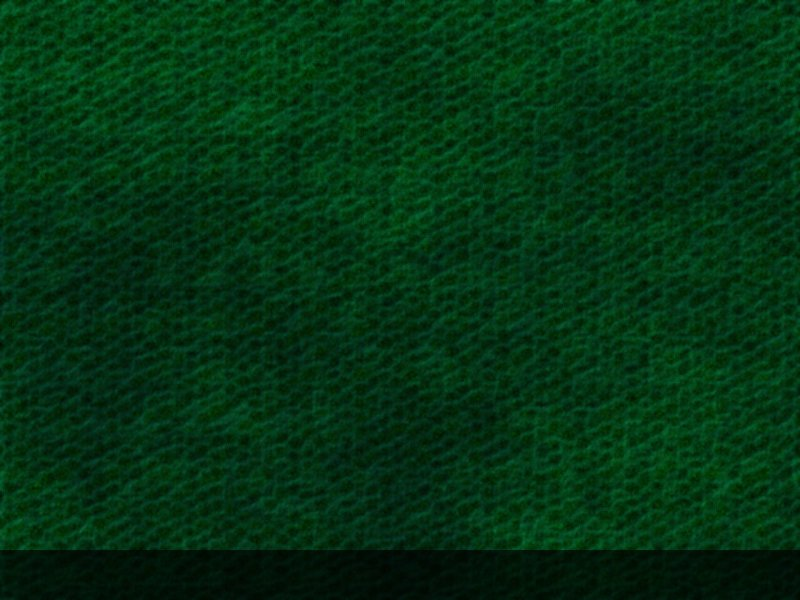
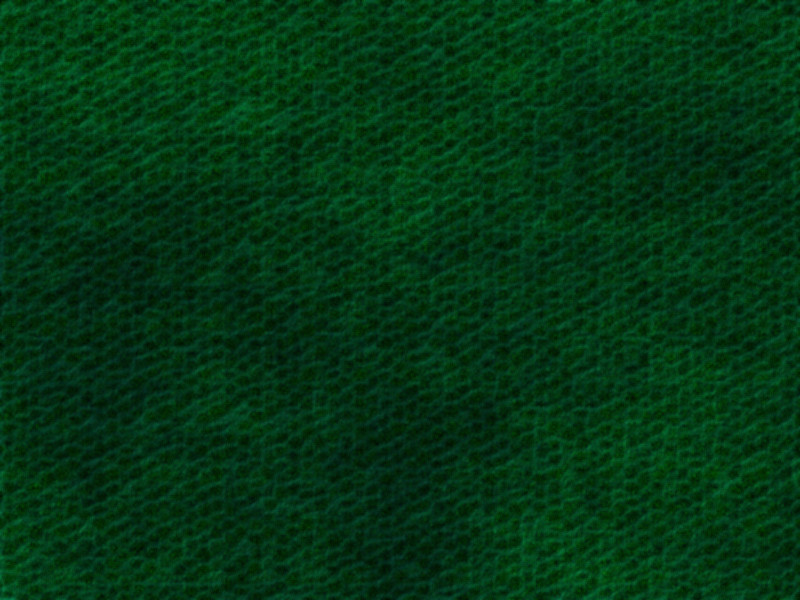
Added scrolling

Changed region(s): [[0.0, 0.9, 1.0, 1.0]]

diff --git a/build/10sectaxi.html b/build/10sectaxi.html
@@ -3,7 +3,7 @@
   <head>
     <meta charset="utf-8">
     <meta http-equiv="Content-Type" content="text/html; charset=utf-8">
-    <title>Ten Second Taxi</title>
+    <title>Ten-Second Taxi</title>
     <style>
       .emscripten { padding-right: 0; margin-left: auto; margin-right: auto; display: block; }
       textarea.emscripten { font-family: monospace; width: 80%; }

diff --git a/app.cpp b/app.cpp
@@ -24,6 +24,7 @@
 #include <SDL/SDL_image.h>
 #include <cstdio>
 #include <cstdlib>
+#include <sstream>
 
 //------------------------------------------------------------------------------
 // Functions defined in JavaScript in the HTML file
@@ -47,7 +48,12 @@ Application::Application(const std::vector<std::string> &lrArgs) :
 	mStartTimeSec(0.0f),
 	mCurrentTimeSec(0.0f),
 	mQuit(false),
-	mpMusic(nullptr)
+	mAreaLeft(0.0f),
+	mAreaRight(0.0f),
+	mAreaTop(0.0f),
+	mAreaBottom(0.0f),
+	mpMusic(nullptr),
+	mpTestSound(nullptr)
 {
 	ASSERT(msInstance == nullptr);
 	msInstance = this;
@@ -121,19 +127,11 @@ bool Application::init()
 	//mpTestSound = gAudioManager.loadSound("data/test_sfx.ogg");
 	//mpTestSound->play();
 	
-	//mpBackground = gTextureManager.load("data/grass.jpg");
-	mpBackground = gTextureManager.load(Settings::getString("screen/background_texture"));
-	mpGuard = gTextureManager.load("data/guard.png");
-	
-	SpriteEntity* lpBackground = new SpriteEntity(float(kDisplayWidth) * 0.5f, float(kDisplayHeight) * 0.5f);
-	lpBackground->setName("background");
-	lpBackground->setTexture(gTextureManager.load("data/grass.jpg"));
-	gEntityManager.registerEntity(lpBackground);	// must be first
+	initBackground(kDisplayWidth, kDisplayHeight);
 	
 	//CarEntity* lpCar = new CarEntity(50.0f, 50.0f, "red");
 	//gEntityManager.registerEntity(lpCar);
-	PlayerCarEntity* lpPlayer = new PlayerCarEntity(300.0f, 300.0f);
-	gEntityManager.registerEntity(lpPlayer);
+	gEntityManager.registerEntity(new PlayerCarEntity(300.0f, 300.0f));
 	
 	// Set up the times immediately before starting the main loop
 	mStartTimeSec = emscripten_get_now() * 0.001f;
@@ -142,6 +140,32 @@ bool Application::init()
 	emscripten_set_main_loop(&Application::updateWrapper, 0, 0);
 	
 	return true;
+}
+
+//------------------------------------------------------------------------------
+
+void Application::initBackground(float lDisplayWidth, float lDisplayHeight)
+{
+	Texture* lpTexture = gTextureManager.load("data/grass.jpg");
+	
+	float lCentreX = lDisplayWidth * 0.5f;
+	float lCentreY = lDisplayHeight * 0.5f;
+	
+	for (int lXTile = -1; lXTile <= 1; ++lXTile)
+		for (int lYTile = -1; lYTile <= 1; ++lYTile)
+		{
+			float lX = lCentreX + lXTile * lDisplayWidth;
+			float lY = lCentreY + lYTile * lDisplayHeight;
+			SpriteEntity* lpBackground = new SpriteEntity(lX, lY);
+			lpBackground->setName((std::ostringstream() << "background (" << lXTile << ", " << lYTile << ")").str());
+			lpBackground->setTexture(lpTexture);
+			gEntityManager.registerEntity(lpBackground);	// must be first
+		}
+	
+	mAreaLeft = -lDisplayWidth;
+	mAreaTop = -lDisplayHeight;
+	mAreaRight = 2.0f * lDisplayWidth;
+	mAreaBottom = 2.0f * lDisplayHeight;
 }
 
 //------------------------------------------------------------------------------
@@ -170,33 +194,14 @@ void Application::processEvents()
 
 void Application::update(float lTimeDeltaSec)
 {
-	/*static float sNextTraceSec = mStartTimeSec;
-	static int sIterations = 0;
-	++sIterations;
-	if (mCurrentTimeSec >= sNextTraceSec)
-	{
-		//printf("Hello again, after %d iterations\n", sIterations);
-		sNextTraceSec += 2.0f;
-		
-		static int s_AgainCounter = 0;
-		++s_AgainCounter;
-		if (s_AgainCounter >= 15)
-		{
-			quit();
-			return;
-		}
-	}*/
-	
 	gEntityManager.update(lTimeDeltaSec);
+	gpCamera->updateFromPlayer(gpPlayer, mAreaLeft, mAreaTop, mAreaRight, mAreaBottom);
 }
 
 //------------------------------------------------------------------------------
 
 void Application::render() const
 {
-	//SDL_BlitSurface(mpBackground, nullptr, gVideo.getDisplaySurface(), nullptr);
-	//SDL_FillRect(gVideo.getDisplaySurface(), nullptr, 0xFF000000);
-	
 	gVideo.clear();
 	
 	gEntityManager.render();

diff --git a/camera.cpp b/camera.cpp
@@ -6,6 +6,9 @@
 
 #include "camera.h"
 
+#include "settings.h"
+#include "useful.h"
+
 //------------------------------------------------------------------------------
 
 Camera* gpCamera = nullptr;
@@ -26,6 +29,42 @@ Camera::~Camera()
 {
 	if (gpCamera == this)
 		gpCamera = nullptr;
+}
+
+//------------------------------------------------------------------------------
+
+bool Camera::canSee(const Entity* lpTarget) const
+{
+	if (lpTarget->right() <= this->left() || this->right() <= lpTarget->left())
+		return false;
+	if (lpTarget->bottom() <= this->top() || this->bottom() <= lpTarget->top())
+		return false;
+	return true;
+}
+
+//------------------------------------------------------------------------------
+
+void Camera::updateFromPlayer(Entity *lpPlayer, float lMinX, float lMinY, float lMaxX, float lMaxY)
+{
+	float lMoveBorderPixels = Settings::getFloat("screen/camera_move_border");
+	
+	float lCameraX = this->x();
+	float lCameraY = this->y();
+	
+	if (lpPlayer->left() < left() + lMoveBorderPixels)
+		lCameraX = max(lpPlayer->left() - lMoveBorderPixels, lMinX) + halfWidth();
+	else if (lpPlayer->right() > right() - lMoveBorderPixels)
+		lCameraX = min(lpPlayer->right() + lMoveBorderPixels, lMaxX) - halfWidth();
+	
+	if (lpPlayer->top() < top() + lMoveBorderPixels)
+		lCameraY = max(lpPlayer->top() - lMoveBorderPixels, lMinY) + halfHeight();
+	else if (lpPlayer->bottom() > bottom() - lMoveBorderPixels)
+		lCameraY = min(lpPlayer->bottom() + lMoveBorderPixels, lMaxY) - halfHeight();
+	
+	//if (lCameraX != this->x() || lCameraY != this->y())
+		//printf("Moving camera from (%.1f, %.1f) to (%.1f, %.1f)\n", x(), y(), lCameraX, lCameraY);
+	
+	setPos(lCameraX, lCameraY);
 }
 
 //------------------------------------------------------------------------------

diff --git a/app.h b/app.h
@@ -36,7 +36,10 @@ public:
 	enum PageUpdateType { UpdatePage, DoNotUpdatePage };
 	void toggleMusic(PageUpdateType lUpdate);
 	
-	Texture* getBackgroundTexture() const { return mpBackground; }
+	float areaLeft() const { return mAreaLeft; }
+	float areaRight() const { return mAreaRight; }
+	float areaTop() const { return mAreaTop; }
+	float areaBottom() const { return mAreaBottom; }
 	
 private:
 	
@@ -47,6 +50,7 @@ private:
 	void render() const;
 	
 	bool init();		// returns false on failure
+	void initBackground(float lDisplayWidth, float lDisplayHeight);
 	void runMainLoopIteration();
 	
 	
@@ -58,15 +62,12 @@ private:
 	float mCurrentTimeSec;
 	bool mQuit;
 	
+	float mAreaLeft, mAreaRight;	//
+	float mAreaTop, mAreaBottom;	// accessible play area
+	
 	Music* mpMusic;
 	Sound* mpTestSound;
 	
-	Texture* mpBackground;
-	Texture* mpGuard;
-	std::vector<float> mvGuardX;
-	std::vector<float> mvGuardY;
-	std::vector<float> mvGuardVX;
-	std::vector<float> mvGuardVY;
 };
 
 #define gApplication Application::instance()

diff --git a/spriteentity.cpp b/spriteentity.cpp
@@ -113,12 +113,19 @@ void SpriteEntity::render() const
 		return;
 	glUseProgram(msShaderProg);
 	
+	if (!gpCamera->canSee(this))
+		return;
+	
+	float lAdjustedX = x() - gpCamera->offsetX();
+	float lAdjustedY = y() - gpCamera->offsetY();
+	
 	// Set up the transformation matrix
 	
 	float lFixedRotationRad = mRotationStartsFromUp ? (-M_PI_OVER_2 - mRotationRad) : mRotationRad;
 	
 	glm::mat4 lTransform(1.0f);		// identity
-	lTransform = glm::translate(lTransform, glm::vec3(x() * msScreenScaleX - 1.0f, y() * msScreenScaleY + 1.0f, 0.0f));
+	lTransform = glm::translate(lTransform, glm::vec3(lAdjustedX * msScreenScaleX - 1.0f,
+													  lAdjustedY * msScreenScaleY + 1.0f, 0.0f));
 	lTransform = glm::rotate(lTransform, lFixedRotationRad, glm::vec3(0.0f, 0.0f, 1.0f));
 	lTransform = glm::scale(lTransform, glm::vec3(width() * msScreenScaleX, height() * msScreenScaleY, 1.0f));
 	glUniformMatrix4fv(msMatUniformID, 1, GL_FALSE, &lTransform[0][0]);

diff --git a/carentity.cpp b/carentity.cpp
@@ -6,6 +6,7 @@
 
 #include "carentity.h"
 
+#include "app.h"
 #include "settings.h"
 #include "texturemanager.h"
 #include "useful.h"
@@ -97,6 +98,33 @@ void CarEntity::update(float lTimeDeltaSec)
 	}
 	
 	SpriteEntity::update(lTimeDeltaSec);
+	
+	// Enforce boundaries
+	Application& lrApp = gApplication;
+	if (left() < lrApp.areaLeft())
+	{
+		setX(lrApp.areaLeft() + halfWidth());
+		if (velX() < 0.0f)
+			setVelX(0.0f);
+	}
+	else if (right() > lrApp.areaRight())
+	{
+		setX(lrApp.areaRight() - halfWidth());
+		if (velX() > 0.0f)
+			setVelX(0.0f);
+	}
+	if (top() < lrApp.areaTop())
+	{
+		setY(lrApp.areaTop() + halfHeight());
+		if (velY() < 0.0f)
+			setVelY(0.0f);
+	}
+	else if (bottom() > lrApp.areaBottom())
+	{
+		setY(lrApp.areaBottom() - halfHeight());
+		if (velY() > 0.0f)
+			setVelY(0.0f);
+	}
 }
 
 //------------------------------------------------------------------------------

diff --git a/camera.h b/camera.h
@@ -26,6 +26,12 @@ public:
 	float halfViewWidth() const		{ return halfWidth(); }
 	float halfViewHeight() const	{ return halfHeight(); }
 	
+	float offsetX() const	{ return x() - halfWidth(); }
+	float offsetY() const	{ return y() - halfHeight(); }
+	bool canSee(const Entity* lpTarget) const;
+	
+	void updateFromPlayer(Entity* lpPlayer, float lMinX, float lMinY, float lMaxX, float lMaxY);
+	
 private:
 };
 

diff --git a/playercarentity.h b/playercarentity.h
@@ -21,6 +21,8 @@ public:
 	virtual void update(float lTimeDeltaSec);
 };
 
+extern PlayerCarEntity* gpPlayer;
+
 //------------------------------------------------------------------------------
 
 #endif // PLAYERCARENTITY_H
